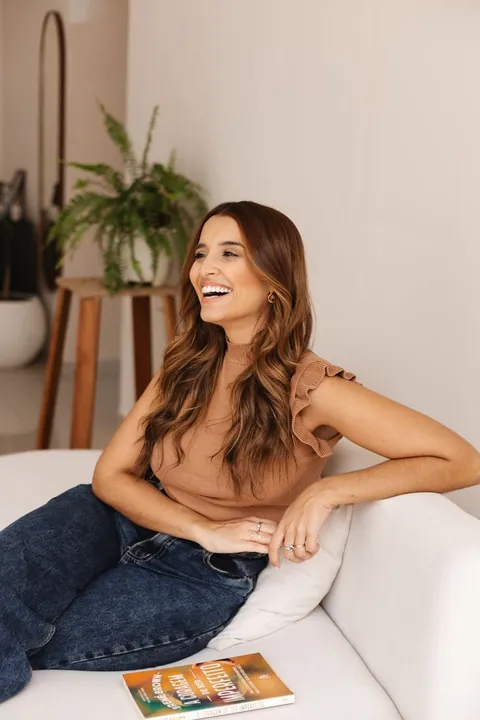
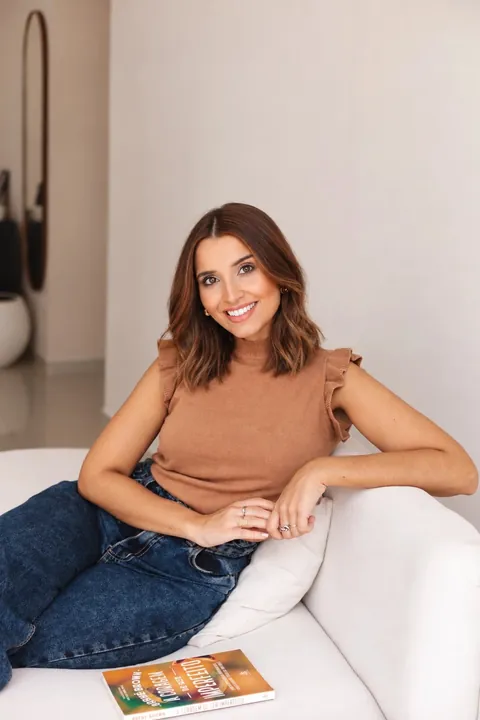
Nova foto principal (corte de cabelo atual)

diff --git a/index.html b/index.html
@@ -20,8 +20,8 @@
 <meta property="og:url" content="https://nutricionistamarina.com.br/">
 <meta property="og:image" content="https://nutricionistamarina.com.br/img/og/inicio.jpg">
 <meta property="og:image:type" content="image/jpeg">
-<meta property="og:image:width" content="733">
-<meta property="og:image:height" content="384">
+<meta property="og:image:width" content="1024">
+<meta property="og:image:height" content="536">
 <meta property="og:image:alt" content="Marina Vaucher, nutricionista em Porto Alegre">
 <meta name="twitter:card" content="summary_large_image">
 <link rel="preconnect" href="https://fonts.googleapis.com">
@@ -68,7 +68,7 @@
         </div>
       </div>
       <div class="collage">
-        <div class="art arch"><img src="/img/hero.webp" srcset="/img/hero-480.webp 480w, /img/hero.webp 733w" sizes="(max-width: 900px) 100vw, 480px" alt="Marina Vaucher sorrindo, sentada em um sofá claro" style="object-position:50% 32%" fetchpriority="high"></div>
+        <div class="art arch"><img src="/img/hero.webp" srcset="/img/hero-480.webp 480w, /img/hero.webp 1024w" sizes="(max-width: 900px) 100vw, 480px" alt="Marina Vaucher sorrindo, sentada em um sofá claro" style="object-position:50% 32%" fetchpriority="high"></div>
         <div class="art round"><img src="/img/frutas.webp" srcset="/img/frutas-480.webp 480w, /img/frutas.webp 880w" sizes="200px" alt="Tigela com morangos, melão e banana" style="object-position:50% 45%"></div>
         <div class="seal">
           <span class="core">nutrição<br>nas fases<br>da vida</span>

diff --git a/consultaonline.html b/consultaonline.html
@@ -20,8 +20,8 @@
 <meta property="og:url" content="https://nutricionistamarina.com.br/consultaonline">
 <meta property="og:image" content="https://nutricionistamarina.com.br/img/og/inicio.jpg">
 <meta property="og:image:type" content="image/jpeg">
-<meta property="og:image:width" content="733">
-<meta property="og:image:height" content="384">
+<meta property="og:image:width" content="1024">
+<meta property="og:image:height" content="536">
 <meta property="og:image:alt" content="Marina Vaucher, nutricionista em Porto Alegre">
 <meta name="twitter:card" content="summary_large_image">
 <link rel="preconnect" href="https://fonts.googleapis.com">

diff --git a/preconsulta.html b/preconsulta.html
@@ -20,8 +20,8 @@
 <meta property="og:url" content="https://nutricionistamarina.com.br/preconsulta">
 <meta property="og:image" content="https://nutricionistamarina.com.br/img/og/inicio.jpg">
 <meta property="og:image:type" content="image/jpeg">
-<meta property="og:image:width" content="733">
-<meta property="og:image:height" content="384">
+<meta property="og:image:width" content="1024">
+<meta property="og:image:height" content="536">
 <meta property="og:image:alt" content="Marina Vaucher, nutricionista em Porto Alegre">
 <meta name="twitter:card" content="summary_large_image">
 <link rel="preconnect" href="https://fonts.googleapis.com">

diff --git a/404.html b/404.html
@@ -20,8 +20,8 @@
 <meta property="og:url" content="https://nutricionistamarina.com.br/404">
 <meta property="og:image" content="https://nutricionistamarina.com.br/img/og/inicio.jpg">
 <meta property="og:image:type" content="image/jpeg">
-<meta property="og:image:width" content="733">
-<meta property="og:image:height" content="384">
+<meta property="og:image:width" content="1024">
+<meta property="og:image:height" content="536">
 <meta property="og:image:alt" content="Marina Vaucher, nutricionista em Porto Alegre">
 <meta name="twitter:card" content="summary_large_image">
 <link rel="preconnect" href="https://fonts.googleapis.com">
